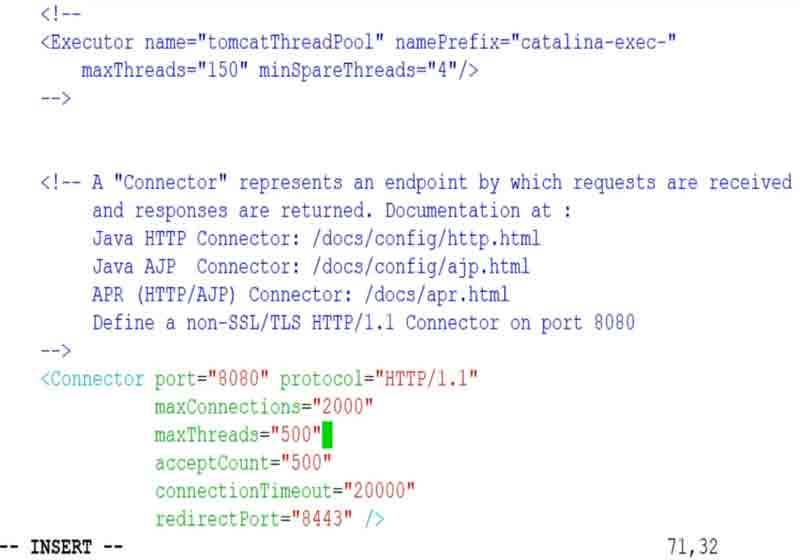
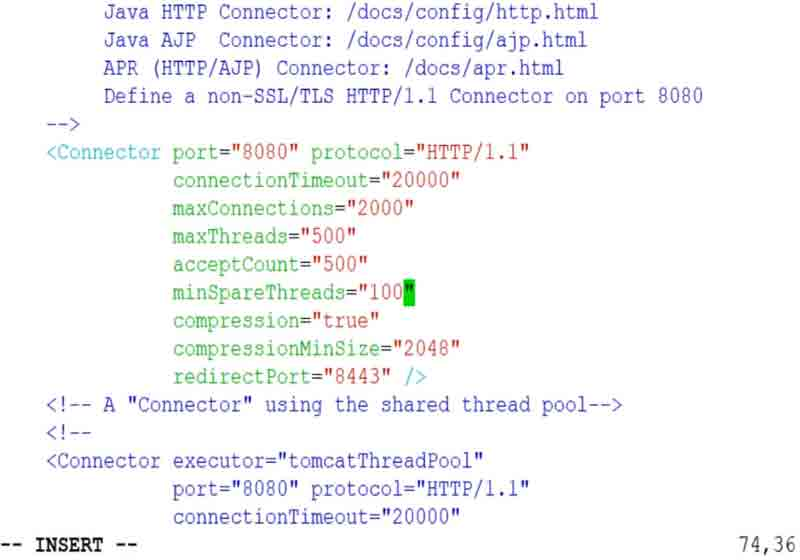
增加git

diff --git a/_posts/git/2018-01-31-git-3.md b/_posts/git/2018-01-31-git-3.md
@@ -111,9 +111,17 @@ git push
 
 你以为四部曲走完就能下班回家陪女友吗，天真了，代码冲突了！！！
 
-当你提交代码前都会去pull一下别人提交的代码，除非你在别人前提交，然后隔壁工位上的那个傻逼4点钟就开始等着提交代码了。
+当你提交代码前都会去pull一下别人提交的代码，除非你在别人前提交，然后隔壁工位上的那个队友4点钟就开始等着提交代码了。
 
-有空在写这个
+关于代码冲突这里我们需要先了解一个命令 reset 
+
+有的时候我想看之前的某个版本，工作中很常见的情况就是我在之前的版本删除了某个文件。现在我想把它找回来。
+
+git log 或者 git reflog 查看commit_id
+
+我喜欢用git reflog 它可以查看到我们的每一次的提交log ，git log 不好的地方是他看不到版本回退后的commit_id ,比如我reset后关闭窗口，那就Git log 就看不到reset后的log了
+
+git reset --hard commit_id   去到过去的某个版本，把我想要的文件拿出来后，在继续git reset --hard commit_id 到最新的版本。这样就可以在历史版本之间穿梭咯
 
 
 ### 那么如何删除一条本地分支和其对应的远程分支了 

diff --git a/_posts/java/2018-04-24-java-2.md b/_posts/java/2018-04-24-java-2.md
@@ -33,6 +33,7 @@ keywords: Tomcat,性能调优
 ![](https://github.com/zcwk/zcwk.github.io/blob/master/assets/img/img3.jpg?raw=true)
 
 这里主要配置 maxConnections（最大连接数） maxThreads（最大线程数） acceptCount（最大排位等待数） , acceptCount最好是在500到1000之间，最好配置和maxThreads持平就行了
+还要配置compression 设置开启Gzip压缩 和 minSpareThreads 最小线程保活数 这个不能超过最大线程数
 
 
 ### 内存优化
@@ -70,14 +71,14 @@ jmap -heap 3340(进程编号)
 ![](https://github.com/zcwk/zcwk.github.io/blob/master/assets/img/img5.jpg?raw=true)
 
 
+### 高级优化（最强出装）前面的都是些开胃菜
 
+1.Tomcat 三种模式	
+	1.BIO 最稳定最老的一个连接器，使用阻塞形式处理request请求
+	2.NIO 使用Java的异步IO技术，进行非阻塞形式处理Request请求
+	3.APR 原生C语言编写的非阻塞IO，目前性能最理想
 
-
-
-
-
-
-### 其他内容优化
+	
 
 
 
